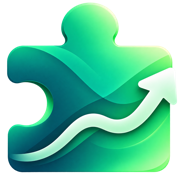
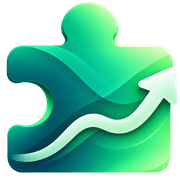
chore: 重做品牌图标：补全常用尺寸并压缩体积
- 新增 src/app/favicon.ico（16/32/48 多尺寸 ICO）。favicon / icon / apple-icon
  三件套由 Next 的文件约定自动注入 link 标签，layout.tsx 只需声明 manifest
- 新增 public/icon-192.png、public/icon-512.png 与 site.webmanifest，
  让 PWA 与添加到主屏的图标生效（否则那两个文件是死的）
- 重新生成全部尺寸：assets/logo.png 1.2M→282K（母版无损重编码）、
  public/logo.png 75K→17K、src/app/icon.png 75K→4.9K 并降到 96px、
  apple-icon 41K→10K
- assets/logo.png 从来不在 public/ 下，未被下载过，此前只影响仓库体积；
  真正到用户浏览器的 favicon 由此从 75K 降到约 11K
- README 补充 Brand assets 章节说明各尺寸用途

16px 仍偏糊：源图细节量放不进 16 像素，需要简化版标记而非继续缩小。

diff --git a/src/app/layout.tsx b/src/app/layout.tsx
@@ -21,6 +21,8 @@ export const metadata: Metadata = {
     template: "%s · ExtSignal",
   },
   description: "Chrome Web Store search intelligence and rank tracking.",
+  // favicon / apple-icon 由 src/app 下的同名文件自动生成，这里只需声明 manifest。
+  manifest: "/site.webmanifest",
 }
 
 export default function RootLayout({ children }: LayoutProps<"/">) {

diff --git a/README.md b/README.md
@@ -89,8 +89,8 @@ extension is still created — ext-probe backfills metadata on its next collecti
 ## Project structure
 
 ```
-assets/logo.png                # brand source (1254px), not served — 界面与图标用的
-                               #   public/logo.png、src/app/icon.png、apple-icon.png 都由它生成
+assets/logo.png                # brand source (1254px), NOT served — the icons below
+                               #   are downsized from it; see "Brand assets"
 db/schema.sql                  # tables + target_latest view
 src/
   proxy.ts                     # route protection for /dashboard/* (Next 16 proxy)
@@ -120,6 +120,26 @@ scripts/
 
 Pages are Server Components. Client boundaries are limited to what genuinely needs interactivity:
 the sidebar, dialogs, the target form, the chart, the tabs container and the Track now button.
+
+## Brand assets
+
+`assets/logo.png` is the 1254px master and is **never served** — it is not inside `public/`. Everything
+users actually download is downsized and re-compressed from it:
+
+| File                       | Size          | Used for                                      |
+| -------------------------- | ------------- | --------------------------------------------- |
+| `src/app/favicon.ico`      | 16 / 32 / 48  | `/favicon.ico`, requested directly by browsers |
+| `src/app/icon.png`         | 96            | modern browser tab icon                        |
+| `src/app/apple-icon.png`   | 180           | iOS home screen                                |
+| `public/icon-192.png`      | 192           | declared in `public/site.webmanifest`          |
+| `public/icon-512.png`      | 512           | declared in `public/site.webmanifest`          |
+| `public/logo.png`          | 256           | in-app wordmark, served through `next/image`   |
+
+The three files under `src/app/` are picked up automatically by Next's file-based metadata, so the
+`<link>` tags are generated at build time and `layout.tsx` only declares the manifest.
+
+The 16px entry is inherently muddy — the artwork carries far more detail than fits in 16 pixels. A
+crisp tab icon at that size would need a simplified mark, not a downscale.
 
 ## How tracking works
 
